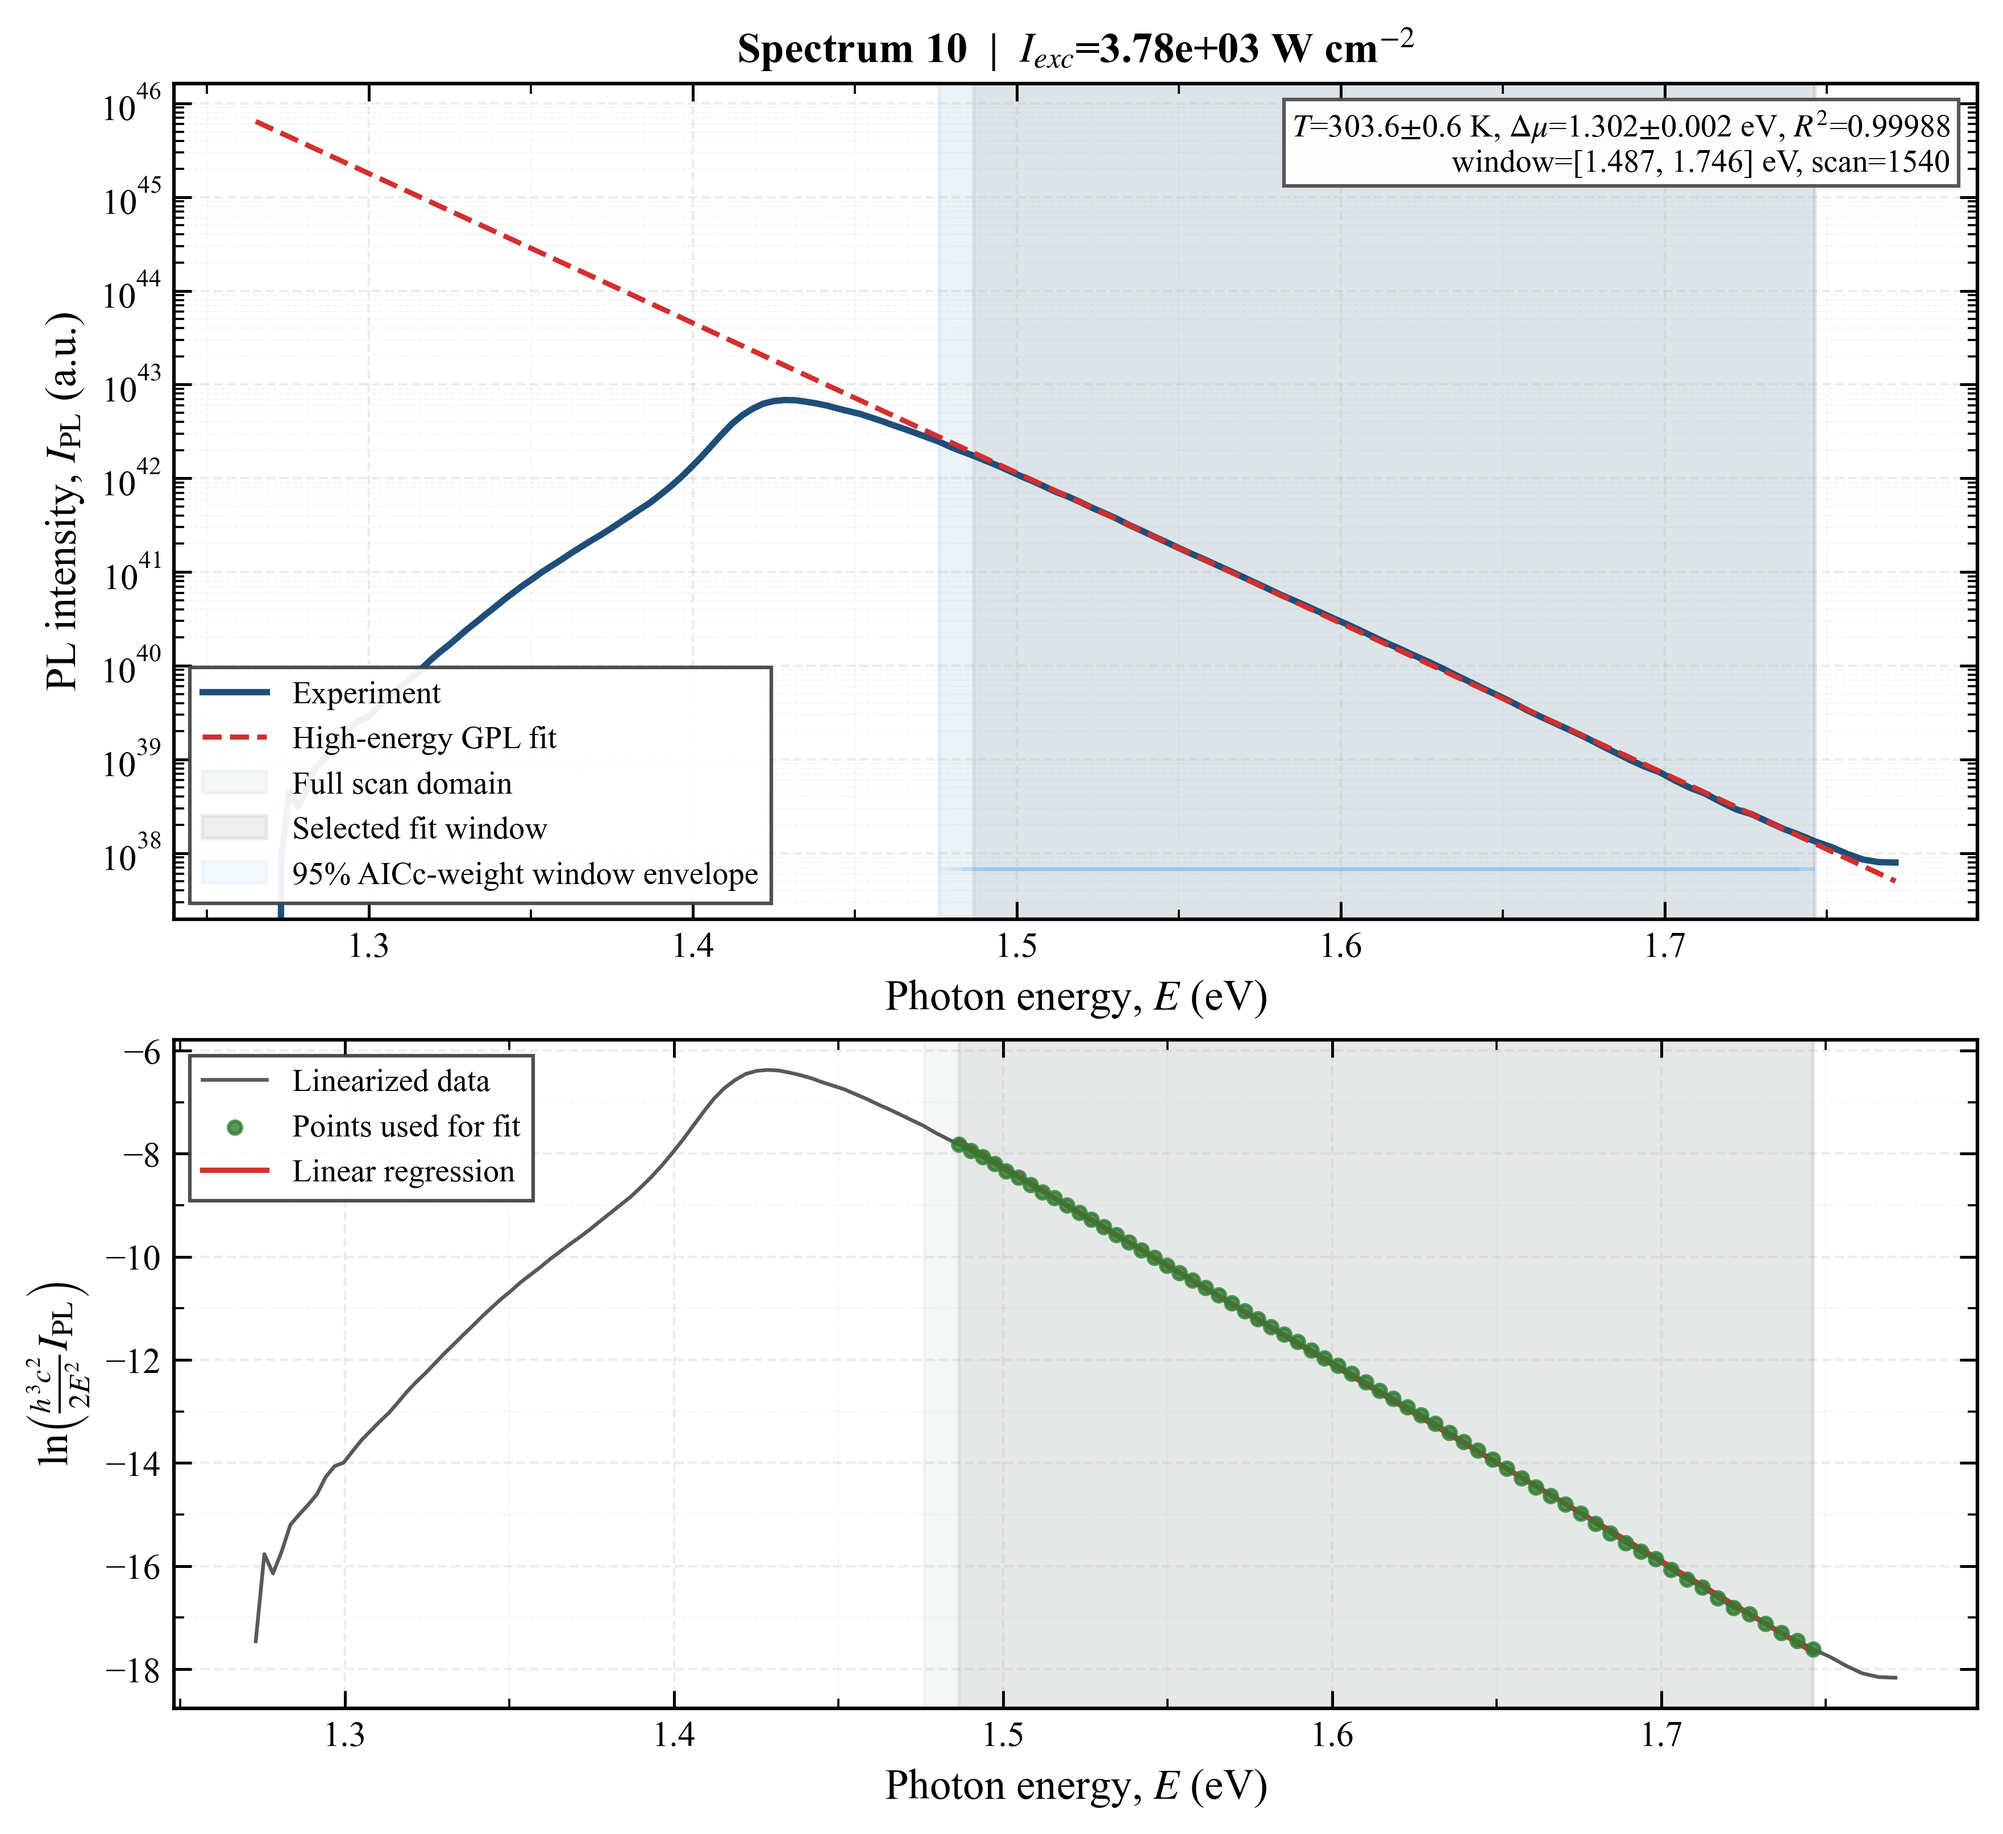
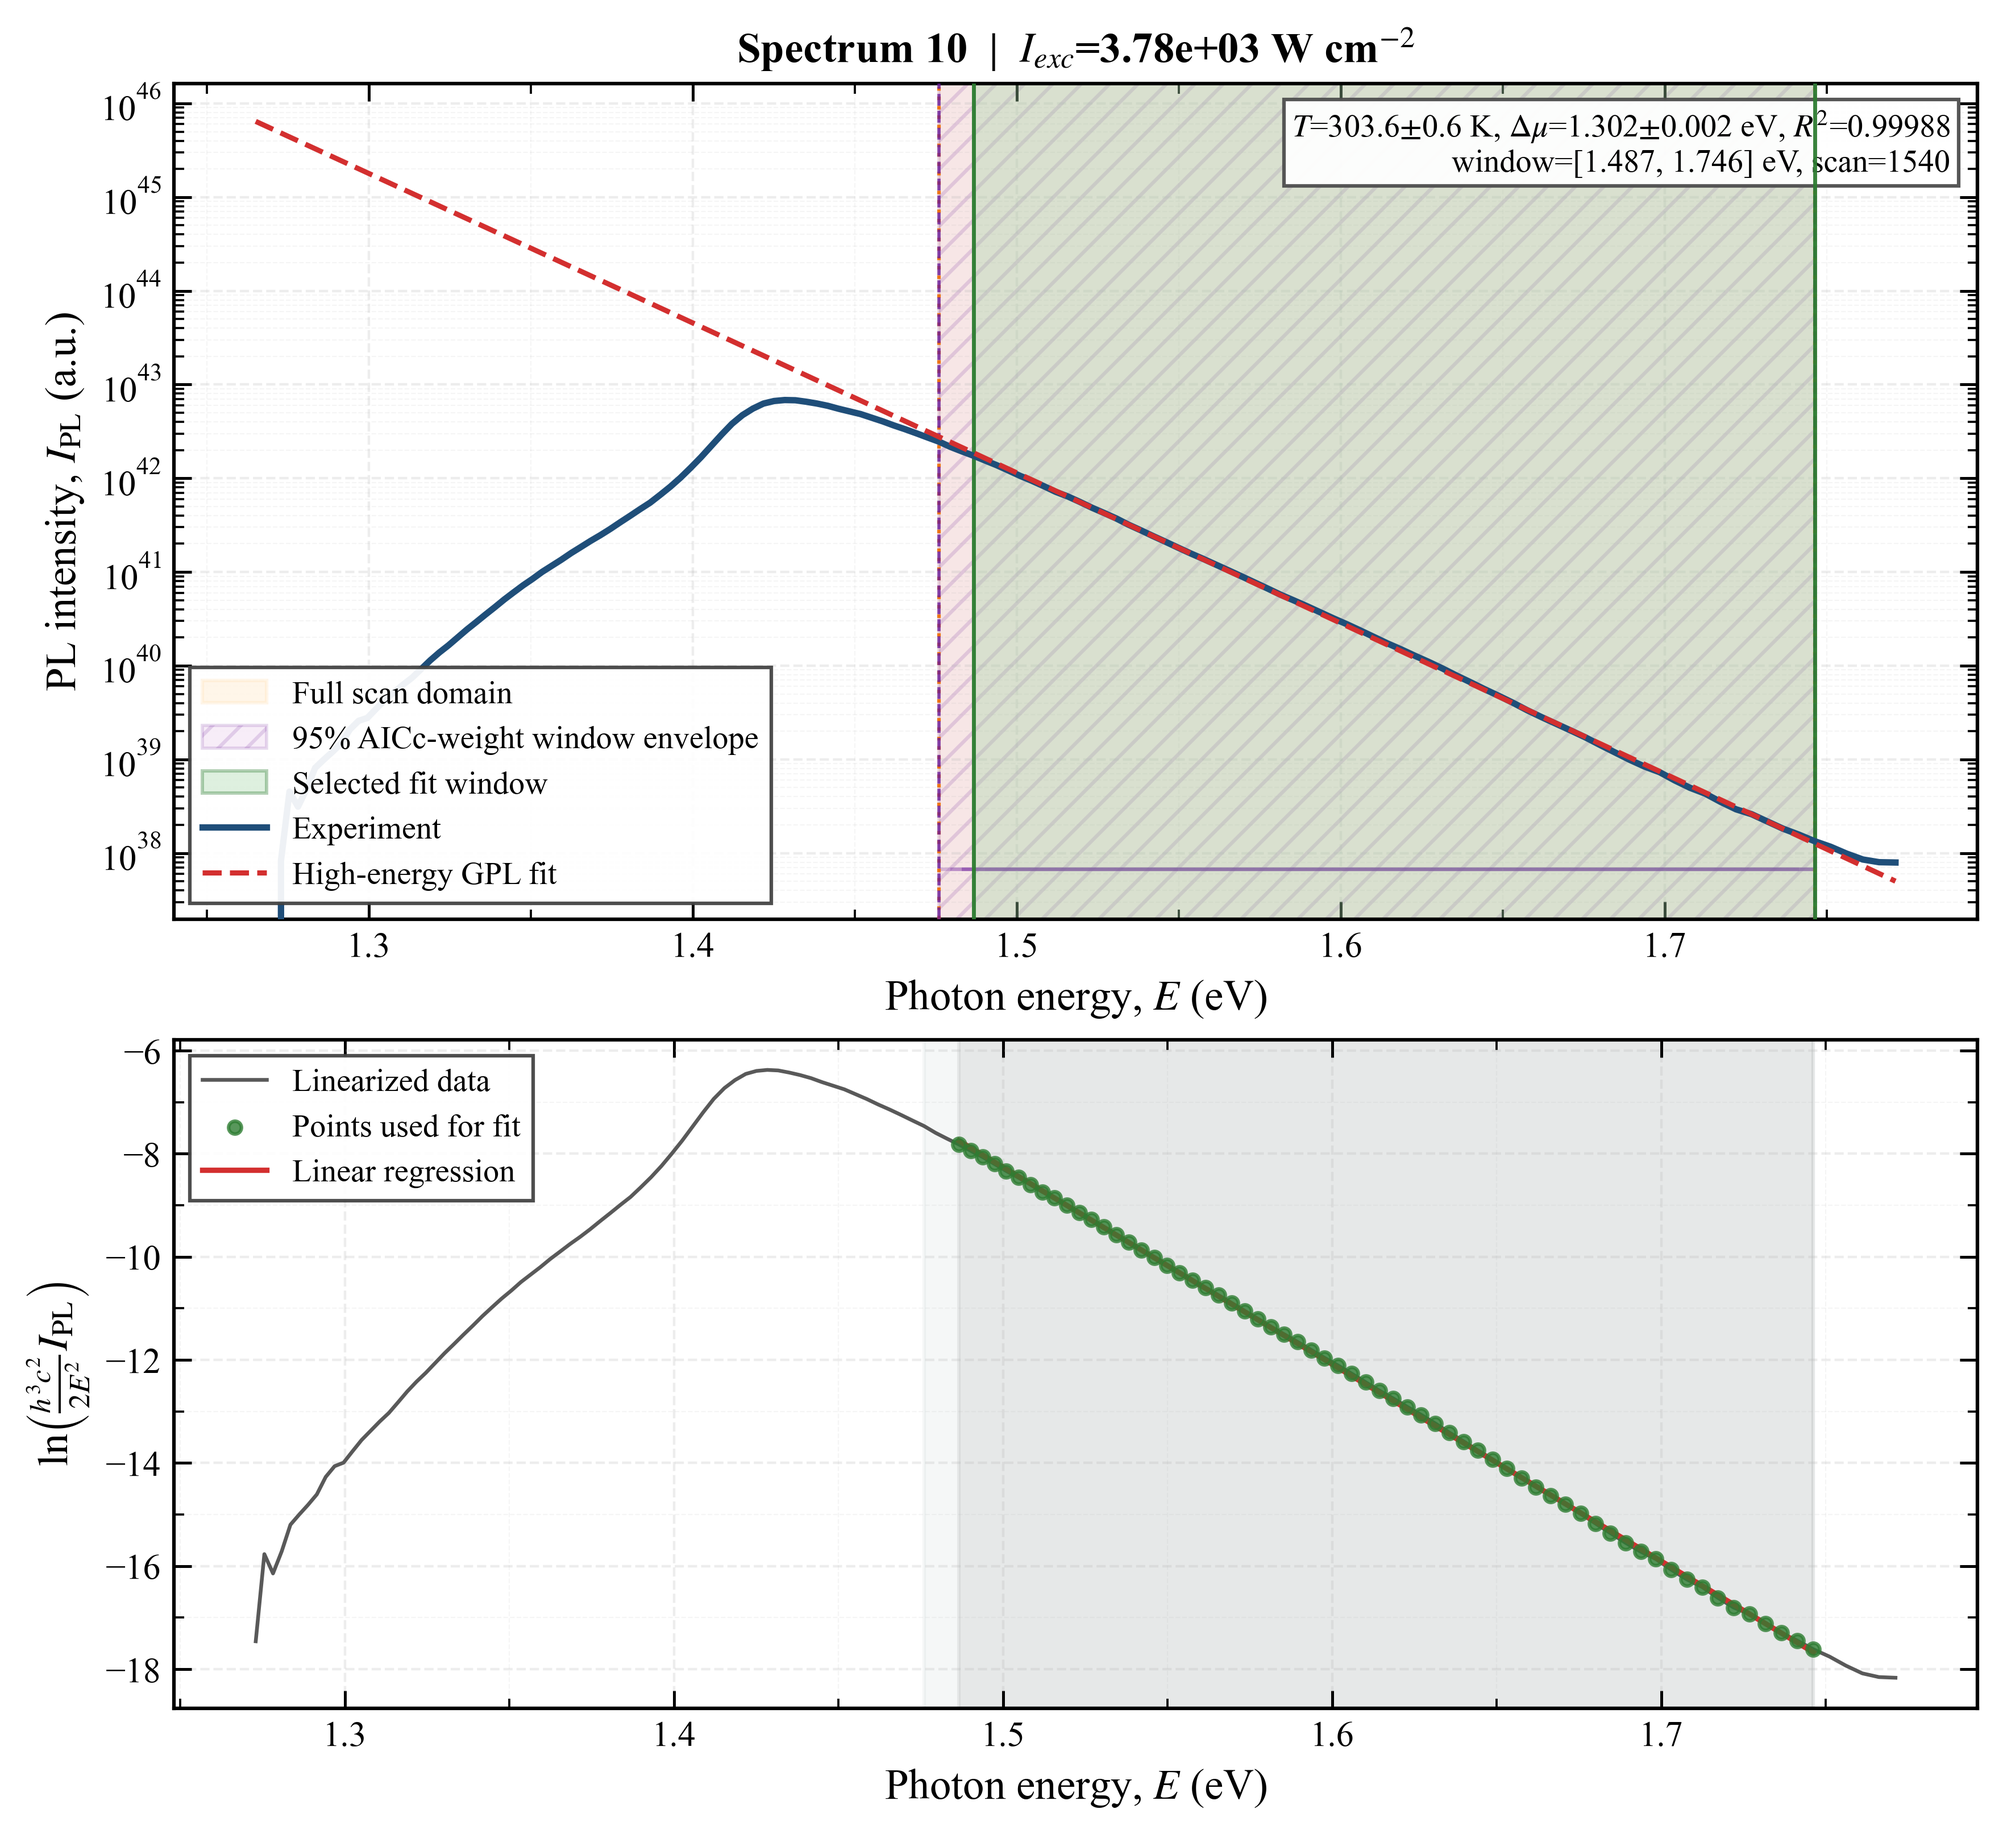
Implemented these changes.
PNG-only output:
save_figure now always writes .png and no longer exports .pdf: [main.py](C:/Users/louis/OneDrive/Desktop/Hot Carrier Solar Cells/main.py:411)
Clear fit-window differentiation (for plots like Spectrum 21):
Added high-contrast, distinct styles for:
Full scan domain (warm fill + dotted boundaries)
95% AICc-weight window envelope (purple hatched band + dashed boundaries)
Selected fit window (green fill + solid boundaries)
Kept experiment/model curves on top for visibility: [main.py](C:/Users/louis/OneDrive/Desktop/Hot Carrier Solar Cells/main.py:1497)
Docs updated to PNG-only outputs:
References changed from *.png/.pdf or * to explicit .png: [README.md](C:/Users/louis/OneDrive/Desktop/Hot Carrier Solar Cells/README.md:175), [README.md](C:/Users/louis/OneDrive/Desktop/Hot Carrier Solar Cells/README.md:305)

Changed region(s): [[0.4682, 0.031, 0.9052, 0.527], [0.0936, 0.372, 0.3121, 0.496], [0.3434, 0.465, 0.3746, 0.496]]

diff --git a/main.py b/main.py
@@ -53,7 +53,6 @@ else:
 
 # Figure export/style
 SAVE_DPI = 450
-EXPORT_PDF = True
 
 # Nominal A0 used to convert Delta_mu_eff into Delta_mu.
 ASSUMED_A0 = 0.5 * (A0_HIGH_ENERGY_MIN + A0_HIGH_ENERGY_MAX)
@@ -410,9 +409,8 @@ def style_axes(ax: plt.Axes, logx: bool = False, logy: bool = False) -> None:
 
 
 def save_figure(fig: plt.Figure, outpath: Path) -> None:
-    fig.savefig(outpath, dpi=SAVE_DPI, bbox_inches="tight")
-    if EXPORT_PDF:
-        fig.savefig(outpath.with_suffix(".pdf"), bbox_inches="tight")
+    png_outpath = outpath.with_suffix(".png")
+    fig.savefig(png_outpath, dpi=SAVE_DPI, bbox_inches="tight")
 
 
 def load_spectra(data_dir: Path, filename: str) -> pd.DataFrame:
@@ -1518,24 +1516,28 @@ def plot_single_fit(
     )
     ax0, ax1 = axes
 
-    ax0.plot(energy_ev, intensity, color="#1f4e79", lw=1.8, label="Experiment")
-    ax0.plot(
-        energy_ev,
-        intensity_model,
-        color="#d32f2f",
-        lw=1.45,
-        ls="--",
-        label="High-energy GPL fit",
-    )
+    scan_fill_color = "#ffe0b2"
+    scan_edge_color = "#ef6c00"
+    selected_fill_color = "#a5d6a7"
+    selected_edge_color = "#2e7d32"
+    envelope_fill_color = "#ce93d8"
+    envelope_edge_color = "#6a1b9a"
+
     if scan_domain_ev is not None:
         ax0.axvspan(
             scan_domain_ev[0],
             scan_domain_ev[1],
-            color="#b0bec5",
-            alpha=0.12,
+            color=scan_fill_color,
+            alpha=0.28,
+            zorder=0,
             label="Full scan domain",
         )
-    ax0.axvspan(fit_min_ev, fit_max_ev, color="0.65", alpha=0.18, label="Selected fit window")
+        ax0.axvline(
+            scan_domain_ev[0], color=scan_edge_color, lw=1.0, ls=":", alpha=0.9, zorder=3
+        )
+        ax0.axvline(
+            scan_domain_ev[1], color=scan_edge_color, lw=1.0, ls=":", alpha=0.9, zorder=3
+        )
     if fit_range_windows_ev:
         for lo_ev, hi_ev in fit_range_windows_ev:
             ax0.hlines(
@@ -1543,9 +1545,10 @@ def plot_single_fit(
                 xmin=lo_ev,
                 xmax=hi_ev,
                 transform=ax0.get_xaxis_transform(),
-                color="#64b5f6",
+                color=envelope_edge_color,
                 lw=1.0,
-                alpha=0.11,
+                alpha=0.28,
+                zorder=1,
             )
         lo_env = float(min(w[0] for w in fit_range_windows_ev))
         hi_env = float(max(w[1] for w in fit_range_windows_ev))
@@ -1553,10 +1556,38 @@ def plot_single_fit(
         ax0.axvspan(
             lo_env,
             hi_env,
-            color="#64b5f6",
-            alpha=0.07,
+            facecolor=envelope_fill_color,
+            alpha=0.16,
+            hatch="///",
+            edgecolor=envelope_edge_color,
+            lw=0.9,
+            zorder=1,
             label=f"{coverage_pct:.0f}% AICc-weight window envelope",
         )
+        ax0.axvline(lo_env, color=envelope_edge_color, lw=0.9, ls="--", alpha=0.8, zorder=3)
+        ax0.axvline(hi_env, color=envelope_edge_color, lw=0.9, ls="--", alpha=0.8, zorder=3)
+    ax0.axvspan(
+        fit_min_ev,
+        fit_max_ev,
+        facecolor=selected_fill_color,
+        alpha=0.36,
+        edgecolor=selected_edge_color,
+        lw=0.95,
+        zorder=2,
+        label="Selected fit window",
+    )
+    ax0.axvline(fit_min_ev, color=selected_edge_color, lw=1.1, ls="-", alpha=0.95, zorder=4)
+    ax0.axvline(fit_max_ev, color=selected_edge_color, lw=1.1, ls="-", alpha=0.95, zorder=4)
+    ax0.plot(energy_ev, intensity, color="#1f4e79", lw=1.8, label="Experiment", zorder=5)
+    ax0.plot(
+        energy_ev,
+        intensity_model,
+        color="#d32f2f",
+        lw=1.45,
+        ls="--",
+        label="High-energy GPL fit",
+        zorder=6,
+    )
 
     style_axes(ax0, logy=True)
     ax0.set_xlabel(r"Photon energy, $E$ (eV)")

diff --git a/README.md b/README.md
@@ -172,7 +172,7 @@ Pipeline in `main.py`:
 
 1. Load `GaAs bulk_PL_avg_circle_4pixs.txt`.
 2. Sort by increasing energy.
-3. Plot all raw spectra (`outputs/all_spectra_logscale.*`).
+3. Plot all raw spectra (`outputs/all_spectra_logscale.png`).
 4. Per spectrum:
    - build candidate high-energy scan domain,
    - enumerate contiguous candidate windows,
@@ -188,9 +188,9 @@ Pipeline in `main.py`:
 6. Compute power-balance quantities (`P_abs`, `P_rec`, `P_thermalized`, fluxes, fractions) in both
    area units (`W cm^-2`) and volumetric units (`W cm^-3`) using `d=950 nm` (configurable).
 7. Plot:
-   - parameter trends (`outputs/parameters_vs_intensity.*`) with MB vs FD overlays for `mu_e`, `mu_h`, and `n`
-   - power balance (`outputs/thermalized_power_vs_absorbed.*`)
-   - `P_th(n,T)` comparison figure (`outputs/pth_nT_comparison.*`)
+   - parameter trends (`outputs/parameters_vs_intensity.png`) with MB vs FD overlays for `mu_e`, `mu_h`, and `n`
+   - power balance (`outputs/thermalized_power_vs_absorbed.png`)
+   - `P_th(n,T)` comparison figure (`outputs/pth_nT_comparison.png`)
    - if a Tsai table is provided, overlay model contours and produce parity-style comparison.
 
 ## 4) Uncertainty Model
@@ -302,12 +302,12 @@ Generated in `outputs/`:
     - `thermalized_power_w_cm3`
     - `thermalized_power_per_carrier_ev_s`
     - fractions and closure diagnostics
-- `all_spectra_logscale.png/.pdf`
-- `parameters_vs_intensity.png/.pdf`
-- `thermalized_power_vs_absorbed.png/.pdf`
-- `pth_nT_comparison.png/.pdf`
+- `all_spectra_logscale.png`
+- `parameters_vs_intensity.png`
+- `thermalized_power_vs_absorbed.png`
+- `pth_nT_comparison.png`
 - `pth_experiment_vs_tsai.csv` (only if `TSAI_MODEL_TABLE_CSV` is provided)
-- `fits/fit_spectrum_XX.png/.pdf` diagnostics per spectrum
+- `fits/fit_spectrum_XX.png` diagnostics per spectrum
 
 ## 8) Run
 
